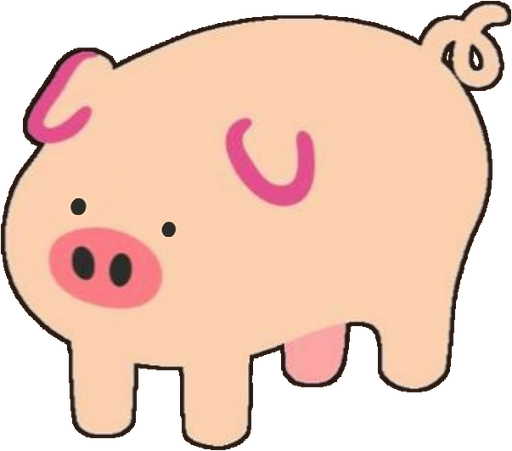
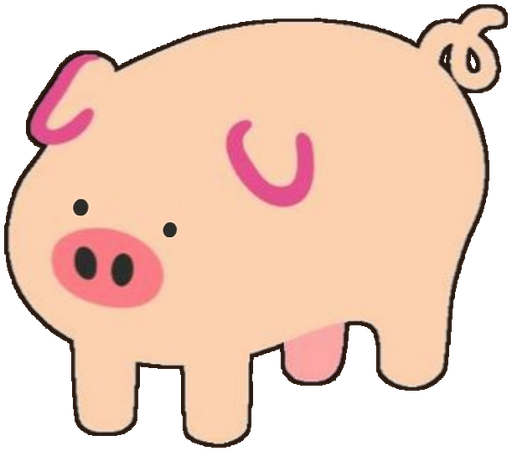
fix(imaging): 描边前加透明边，被画布裁切的猪也能描完整

diff --git a/lib/imaging.js b/lib/imaging.js
@@ -677,3 +677,24 @@ export function stripBackground(frame, options = {}) {
   }
   return { removed, mode: 'flood' };
 }
+
+/**
+ * 给画面四周加透明边。
+ *
+ * 为什么需要：有些素材的猪**被画布四边裁切**（鼻子顶左缘、尾巴顶右缘），
+ * 而 `addOutline` 只在帧内膨胀——那几条边上的描边就断了。先加一圈透明边，
+ * 描边就能顺着裁切边画完整。
+ */
+export function padFrame(frame, pad) {
+  const n = Math.max(0, Math.round(pad));
+  if (!n) return frame;
+  const width = frame.width + n * 2;
+  const height = frame.height + n * 2;
+  const data = new Uint8Array(width * height * 4);
+  for (let y = 0; y < frame.height; y += 1) {
+    const from = y * frame.width * 4;
+    const to = ((y + n) * width + n) * 4;
+    data.set(frame.data.subarray(from, from + frame.width * 4), to);
+  }
+  return { width, height, data };
+}

diff --git a/lib/index.js b/lib/index.js
@@ -31,7 +31,7 @@ import {
 export const name = 'dsh-pighub';
 export const inject = ['tools'];
 
-const VERSION = '0.4.7';
+const VERSION = '0.4.8';
 const ROUTE = '/pighub';
 
 /** 冻结库读一次缓存一分钟：它在包内不会变，但换版本/热重载时又能及时反映。 */

diff --git a/CHANGELOG.md b/CHANGELOG.md
@@ -3,6 +3,12 @@
 本项目遵循 [Semantic Versioning](https://semver.org/lang/zh-CN/)；每条记录只写「对使用者可见的变化」，
 内部重构不单列。README 只描述项目整体，**版本相关内容一律记在这里**。
 
+## [0.4.8] — 2026-11-12（未发布）
+
+### Fixed
+
+- **被画布裁切的猪描边会断**：`addOutline` 只在帧内膨胀，而有些素材四边都贴着画布（愤怒猪：鼻顶左缘、尾顶右缘、腿顶下缘、尾尖顶上缘）。新增 `padFrame()` 在描边前加一圈透明边，描边得以沿裁切边画完整。实测愤怒猪四边描边不再是断口，成品 512×455。
+
 ## [0.4.7] — 2026-11-12（未发布）
 
 ### Changed
